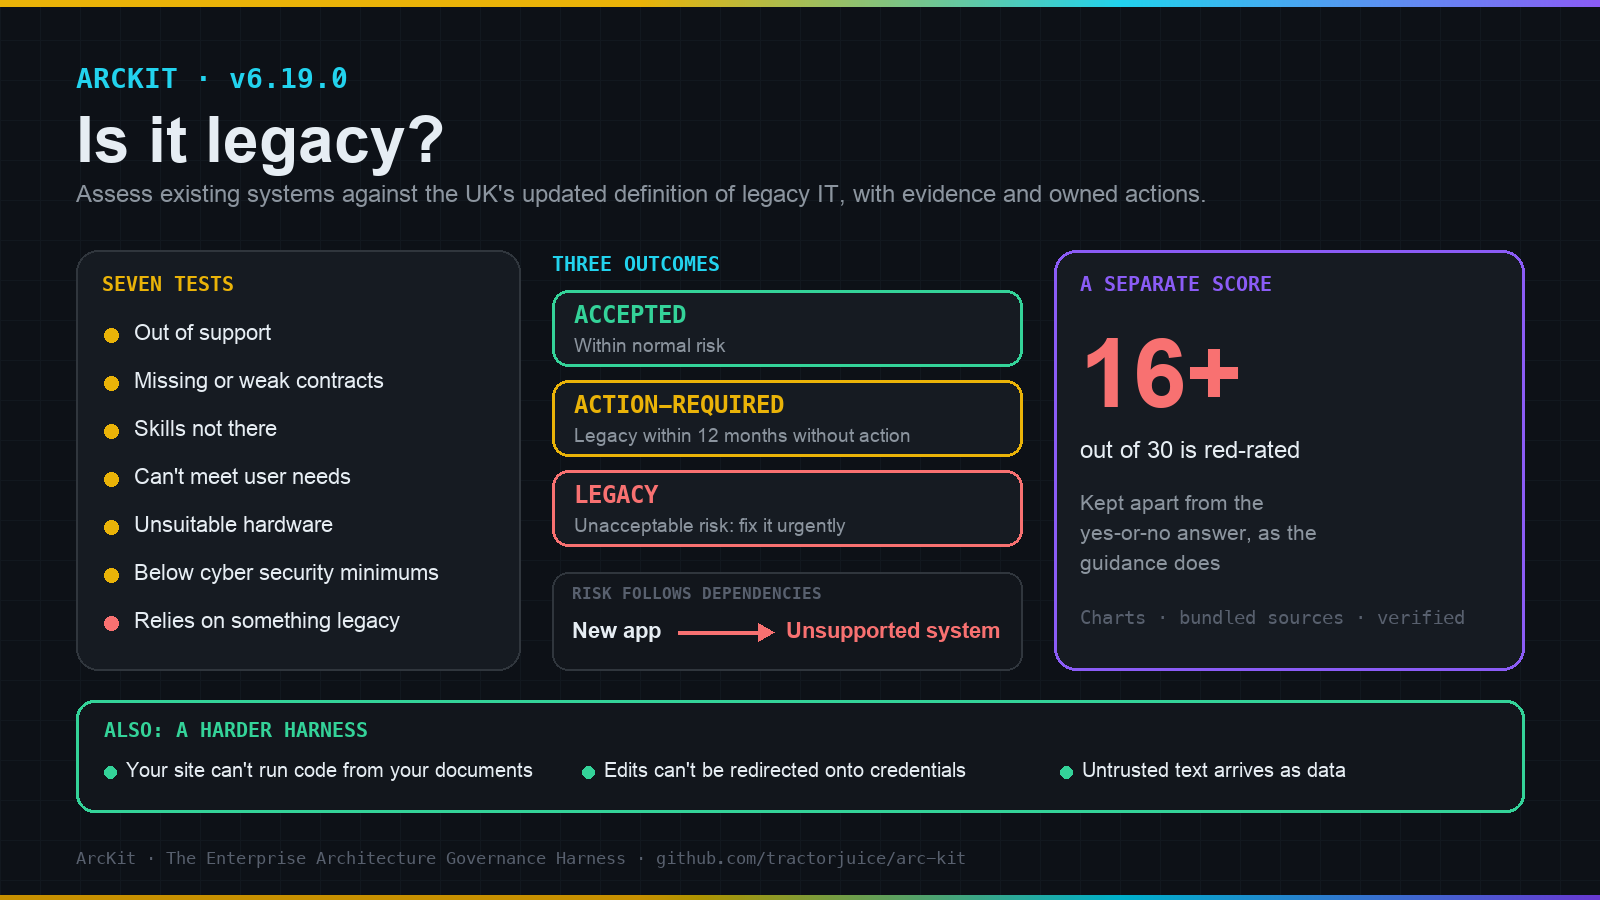
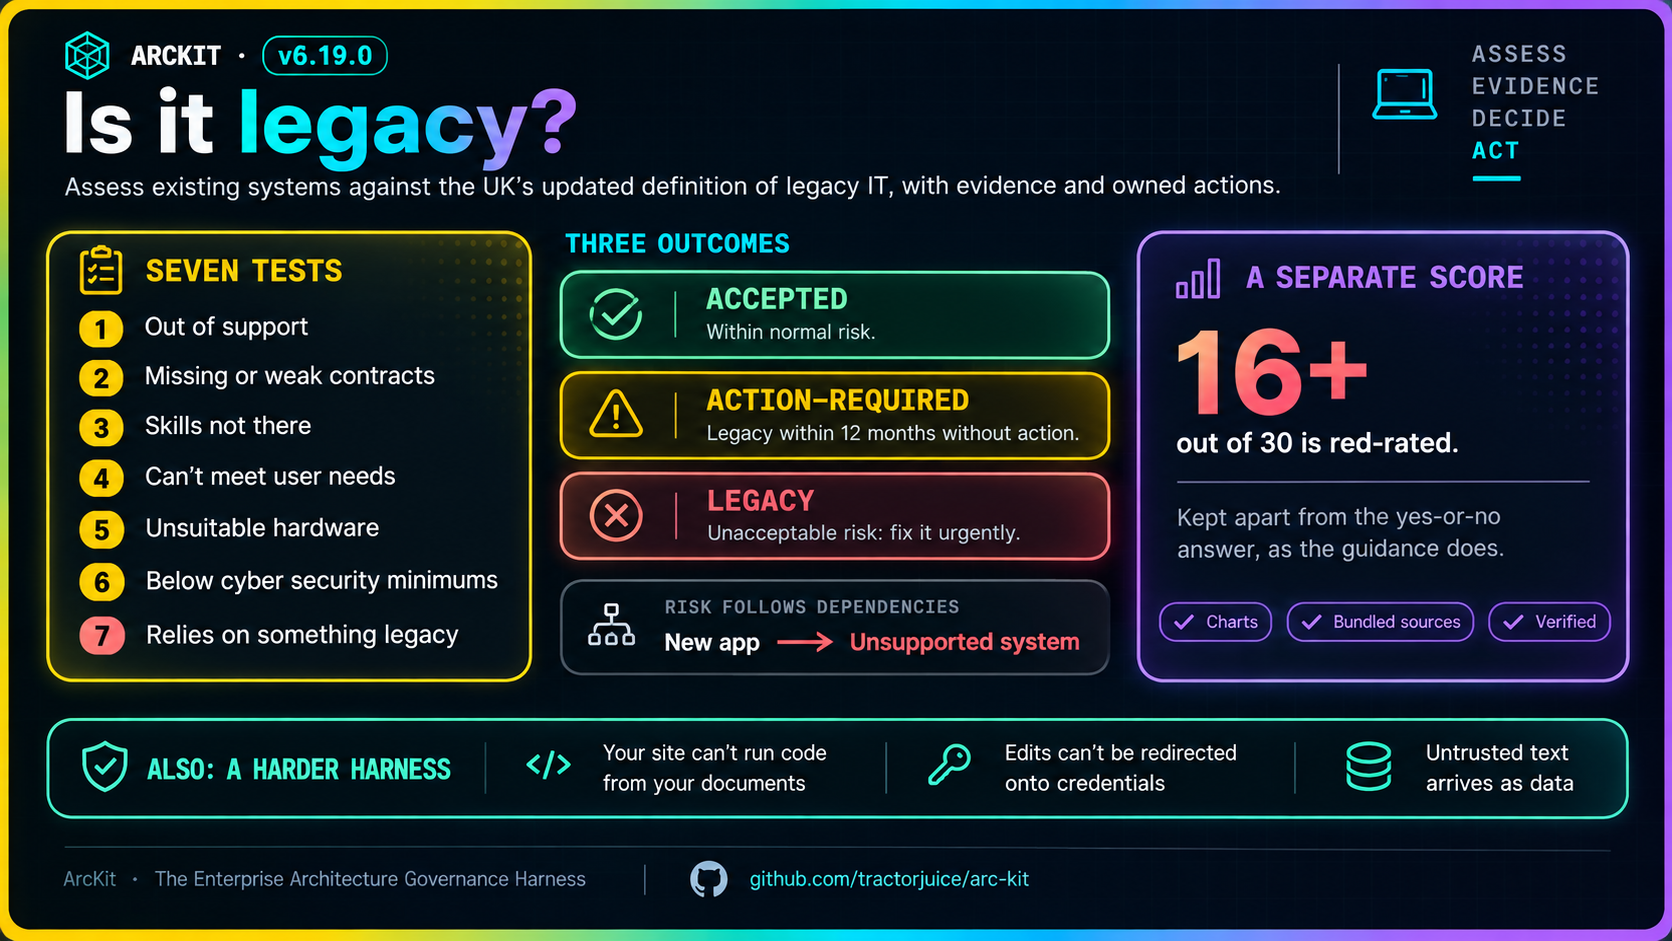
docs: use the redesigned v6.19.0 hero
The maintainer supplied a redesigned version of the generated layout (1672x941, losslessly optimised). The generator script stays as the draft layout, with a note not to run it over the published image.

Claude-Session: https://claude.ai/code/session_01Hfsx54jK12NMAdM4RF3ft4

Changed region(s): [[0.0, 0.0, 1.0, 1.0]]

diff --git a/docs/articles/generate-hero-v6-19-is-it-legacy.py b/docs/articles/generate-hero-v6-19-is-it-legacy.py
@@ -5,6 +5,10 @@ outcomes, a dependency carrying Legacy to a new application, the separate
 risk score, and a strip for the security fixes. Same house style as the
 sibling generate-hero-*.py scripts.
 
+The published hero is a redesigned version of this layout, supplied by the
+maintainer on 2 November 2026 (1672x941). Running this script writes the
+original draft over it, so don't run it unless you mean to replace that image.
+
     uv run --with pillow python docs/articles/generate-hero-v6-19-is-it-legacy.py
 """
 
